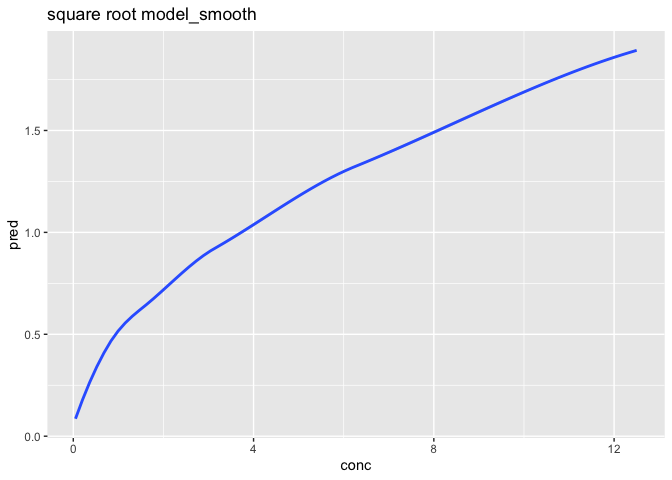
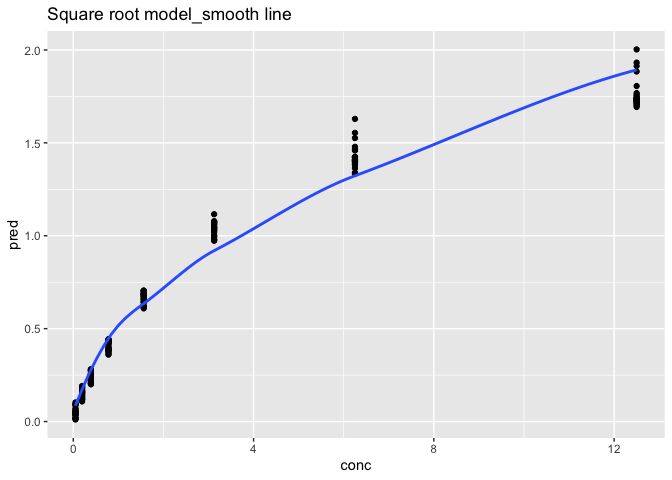
This is an update.

diff --git a/hw_8.md b/hw_8.md
@@ -66,7 +66,7 @@ glance <- by_run %>%
   unnest(glance)
 ggplot(glance, aes(x=Run, y=AIC)) + 
   geom_point() + 
-  ggtitle("square root model")
+  ggtitle("Square root model")
 ```
 
 ![](hw_8_files/figure-gfm/unnamed-chunk-3-1.png)<!-- -->
@@ -89,7 +89,7 @@ glance <- by_run_2 %>%
   unnest(glance)
 ggplot(glance, aes(x=Run, y=AIC)) + 
   geom_point() + 
-  ggtitle("monod-type model")
+  ggtitle("Monod-type model")
 ```
 
 ![](hw_8_files/figure-gfm/unnamed-chunk-4-1.png)<!-- -->
@@ -116,8 +116,9 @@ single_sqrt_model <- nls2(nls_mod,
  md1 %>% 
   add_predictions(single_sqrt_model) %>% 
   ggplot(aes(conc, pred)) + 
+  geom_point(aes(x=conc, y=density)) +
   geom_smooth()+ 
-  ggtitle("square root model_smooth")
+  ggtitle("Square root model_smooth line")
 ```
 
 ![](hw_8_files/figure-gfm/unnamed-chunk-6-1.png)<!-- -->
@@ -130,8 +131,9 @@ monod_model <- nls2(mon_mod,
  md1 %>% 
   add_predictions(monod_model) %>% 
   ggplot(aes(conc, pred)) + 
+  geom_point(aes(x=conc, y=density)) +
   geom_smooth()+ 
-  ggtitle("monod-type model_smooth")
+  ggtitle("Monod-type model_smooth line")
 ```
 
 ![](hw_8_files/figure-gfm/unnamed-chunk-7-1.png)<!-- -->
